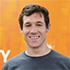
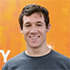
added comments

diff --git a/index.html b/index.html
@@ -3,8 +3,8 @@
   <head>
     <meta charset="utf-8">
     <meta name="viewport" content="width=device-width, initial-scale=1">
-    <meta name="description" content=" FILL ME IN ">
-    <meta name="author" content=" FILL ME IN ">
+    <meta name="description" content="Web Performance optimization">
+    <meta name="author" content="Derek Lee">
     <title>Derek Lee: Portfolio</title>
 
     <!-- Hmm, what is the impact of web fonts on speed? Measure it... -->
@@ -22,6 +22,7 @@
       ga('create', 'UA-XXXX-Y');
       ga('send', 'pageview');
     </script>
+    <!-- added async tag because it should not block the rendering path -->
     <script async src="http://www.google-analytics.com/analytics.js"></script>
     <script async src="js/perfmatters.js"></script>
   </head>
@@ -31,7 +32,7 @@
 
       
 
-      <a href="/"><img src="img/me2.jpg"></a>
+      <a href="/"><img src="img/profilepic.jpg"></a>
 
       <p>Derek Lee<br><span>Web Developer</span></p>
     </header>
